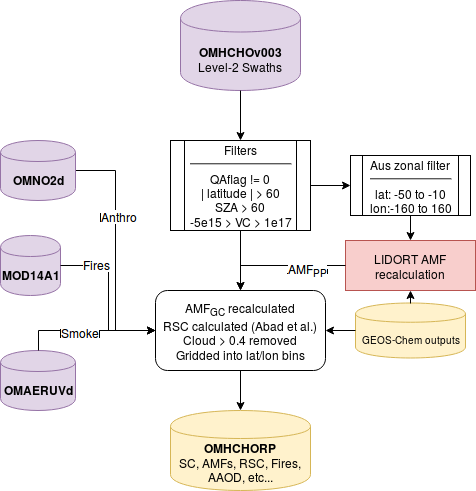
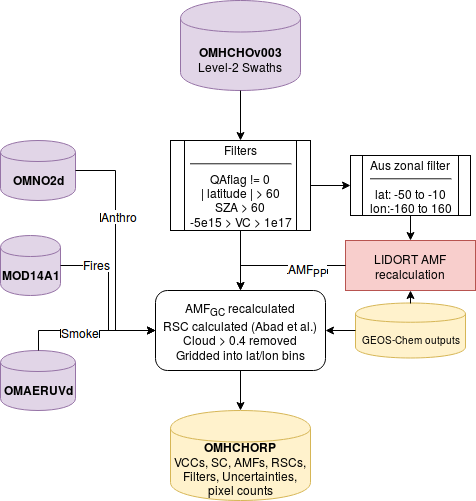
Updated modelling process

diff --git a/Chapters/Modelling.tex b/Chapters/Modelling.tex
@@ -794,7 +794,7 @@
       They determine the structural uncertainty on seven AMF calculation approaches used by different retrieval groups.
       They show that in scenarios where the gas is enhanced in the lower troposphere, AMF calculation is the largest uncertainty in satellite measurements.
       In polluted environments the structural uncertainty is estimated at 42~\%, or 31~\% over unpolluted environments.
-      The importance of apriori and ancilliary data (such as surface albedo and cloud top height) is also shown, as it sharply affects the structural uncertainty.
+      The importance of apriori and ancillary data (such as surface albedo and cloud top height) is also shown, as it sharply affects the structural uncertainty.
       
       
 
@@ -812,14 +812,18 @@
   OMI HCHO vertical columns are calculated using modelled apriori HCHO profiles (see section \ref{Model:Datasets:OMHCHO}).
   When comparing satellite measurements against models it is important to recognise the impact of this apriori on the total column values.
   This is due to how the sensitivity of OMI (to HCHO and other trace gases) varies vertically throughout the atmosphere.
-  When comparing OMI VCs to GEOS-Chem, the satellite AMF needs to be recalculated using GOES-Chem modelled vertical gas profiles as the aprioris.
+  When comparing OMI VCs to GEOS-Chem, the satellite AMF needs to be recalculated using GEOS-Chem modelled vertical gas profiles as the aprioris.
   Without performing this step a bias between modelled and measured total column values may be due to the apriori rather than chemistry or measurements \parencite{Palmer2001, Lamsal2014}.
   
   % Very brief outline
-  In recalculating AMFs, the shape factors used by OMI are replaced using GEOS-Chem profiles.
-  Additionally both the shape factor and scattering weights of the satellite are recalculated using code initially written by Professor P. Palmer (see sections \ref{Model:omiRecalc:ShapeFactor} and \ref{Model:omiRecalc:ppcode} for more details).
-  Finally a reference sector correction is determined using a similar method to that seen in \textcite{Abad2016}, (see section \ref{Model:omiRecalc:RSC}).
+  Two new AMFs are calculated, both using GEOS-Chem HCHO profiles as the new apriori. 
+  The first AMF (AMF$_GC$) uses the original satellite scattering weights while recalculating the shape factor, whereas the second AMF (AMF$_{PP}$) also recalculates scattering weights.
+  AMF$_{PP}$ is created using code initially written by Professor P. Palmer (see sections \ref{Model:omiRecalc:ShapeFactor} and \ref{Model:omiRecalc:ppcode} for more details).
+  A reference sector correction is determined using a similar method to that seen in \textcite{Abad2016}, (see section \ref{Model:omiRecalc:RSC}).
   This correction is unique for each of the 60 \textit{measurement tracks} used by OMI.
+  Finally the correction is applied to each pixel to create the corrected vertical column (VCC). 
+  The end product is three sets of VCCs: the original (VCC$_{OMI}$), VCC$_{GC}$, and VCC$_{PP}$.
+  
   
   \subsection{Outline}
     \label{Model:omiRecalc:outline}
@@ -837,17 +841,17 @@
         \item S$_\sigma(z)$ is calculated on each altitude: $S_\sigma(z) = mr_{HCHO}(z) \times \Omega_A / \Omega_{HCHO}$
       \end{enumerate}
       \item Satellite pixels and associated scattering weights ($\omega(z)$), pressure levels, latitude and longitude are read from the OMHCHO dataset.
-      \item For each pixel, a new AMF is created using the GEOS-Chem shape factors and satellite scattering weights.
+      \item For each pixel, a new AMF (AMF$_GC$)is created using the GEOS-Chem shape factors and satellite scattering weights.
       \begin{enumerate}
         \item $\omega$s are interpolated onto the same vertical dimensions (\textit{z} and $\sigma$) as the shape factors.
-        \item Integration (approximated using rectangular method) is performed along the vertical dimension to calculate the AMFs.
+        \item Integration (approximated using rectangular method) is performed along the vertical dimension to calculate the new AMF on both coordinate systems.
         \begin{align}
           AMF_z &= \Sigma_z \left(\omega(z) \times S_z(z) \times H(z)\right) \\
           AMF_s &= \Sigma_{\sigma} \left(\omega(\sigma) \times S_{\sigma}(\sigma) \times d\sigma \right)
         \end{align}
       \end{enumerate}
-      \item The AMFs are used to determine the new vertical columns: $\Omega_{HCHO} = SC/AMF$.
-      \item Another recalculation (AMF$_{PP}$) using code from P. Palmer and L. Surl which additionally recalculates the $\omega$ for each pixel is described in section \ref{Model:omiRecalc:ppcode}.
+      \item These two AMFs represent the same thing using different coordinates, either one can be used as the AMF$_{GC}$.
+      \item The AMF$_{PP}$ (created separately) and AMF$_{GC}$ are used to determine the new vertical columns: $\Omega_{HCHO} = SC/AMF$.
       \item A reference sector correction (RSC) is defined each day using these AMFs along with modelled HCHO over the remote pacific.
       \begin{enumerate}
         \item GEOS-Chem satellite overpass output total columns from 140{\degr}W to 160{\degr}W are averaged longitudinally to provide a modelled reference sector.
@@ -856,8 +860,8 @@
         \item These corrections are binned by satellite track (1-60), and latitude (0.36\degr; 500 latitudes from 90{\degr}S to 90{\degr}N).
         \item The median entry of each bin is the RSC used to correct each satellite pixel corresponding to the matching satellite track and latitude.
       \end{enumerate}
-      \item Corrected vertical columns (VCC) are determined for each pixel using $VCC = (SC - RSC(lat,track) )/AMF$ for each AMF.
-      \item The VCC and $\Omega_{HCHO}$ are binned onto a 0.25\degr by 0.3125\degr grid along with how many pixels have been binned, and the average pixel uncertainty in product OMHCHORP.
+      \item VCC are determined for each pixel using $VCC = (SC - RSC(lat,track) )/AMF$ for each AMF.
+      \item The VCC are binned onto a 0.25\degr by 0.3125\degr grid along with how many pixels have been binned, and the average pixel uncertainty in product OMHCHORP.
     \end{enumerate}
   
     Figure \ref{Model:omiRecalc:fig_flow_omhchorp} shows an overview of how these profiles are used in this thesis.
@@ -876,10 +880,14 @@
     % Filters applied when reading
     When reading OMHCHO level 2 swath files, several factors are taken into account in order to filter uncertain and erroneous pixels.
     The process is outlined in figure  \ref{Model:Datasets:OMHCHO:fig_flow_omhchorp} for a single day.
-    First all the pixels for are read, filtered by the QA flag, solar zenith angle (SZA) and latitude (\textcite{Palmer2001}).
+    First all \textit{good} pixels (those with QA flag equal to 0) are read into a long list (roughly 1 million per day).
+    These are then filtered by solar zenith angle (SZA) and latitude, similarly to other works \parencite[eg.]{Marais2012, Barkley2013, Bauwens2016, Zhu2016}.
+    This filtering removes highly uncertain pixels, along with those for which instrument problems such as the OMI row anomaly (see section \ref{Model:Datasets:OMHCHO}) may have affected.
+    
+    % Actual filtering done
     Satellite measurements polewards of 60\degr north or south are removed as well as measurements with SZA greater than 60\degr.
-    Further filtering is performed to remove the measurements which are most likely to be unrealistic: those with column density outside the range $-0.5 \times 10^{16}$ to $10^{17} $~molecules cm$^{-2}$.
-    These are similar filters to those applied in \textcite{Zhu2016}, (TODO: add similar justification if succinct).
+    Pixels with a cloud fraction greater than 40\% are filtered out after RSC is created.
+    Further filtering is performed to remove the measurements which are most likely to be unrealistic: those with column density outside the range $-0.5 \times 10^{16}$ to $10^{17} $\moleccm, as is performed by\textcite{Zhu2016}.
     This final filter is required due to currently unexplained large negative values which occur in the OMI HCHO product increasingly over time.
     Figure \ref{Model:omiRecalc:fig_OMI_negative_hist} shows how unfiltered HCHO columns are affected by a small set of highly negative values which heavily affect the mean column amount over any region.
     The histograms here show the negative (left) and positive (right) total column HCHO measurements from a subset of swaths over Australia, on the 18th of March 2013.
@@ -891,9 +899,7 @@
     {\label{Model:omiRecalc:fig_OMI_negative_hist}}
     
     % Built in QA
-    The satellite data comes with quality assurance flags which are used as filtering criteria as is done in several other studies \parencite[eg.]{Marais2012, Barkley2013, Bauwens2016, Zhu2016}.
-    This filtering removes highly uncertain pixels, along with those for which instrument problems such as the OMI row anomaly (see section \ref{Model:Datasets:OMHCHO}) may have affected.
-    Clouds also have various detrimental effects on slant column uncertainty and AMF calculation, so cloud fraction is saved in the OMHCHO product.
+    
     
     % reading pixels into a long list
     Each pixel and it's relevant data are saved in a long list, around $1.1$ million pixels per day.
